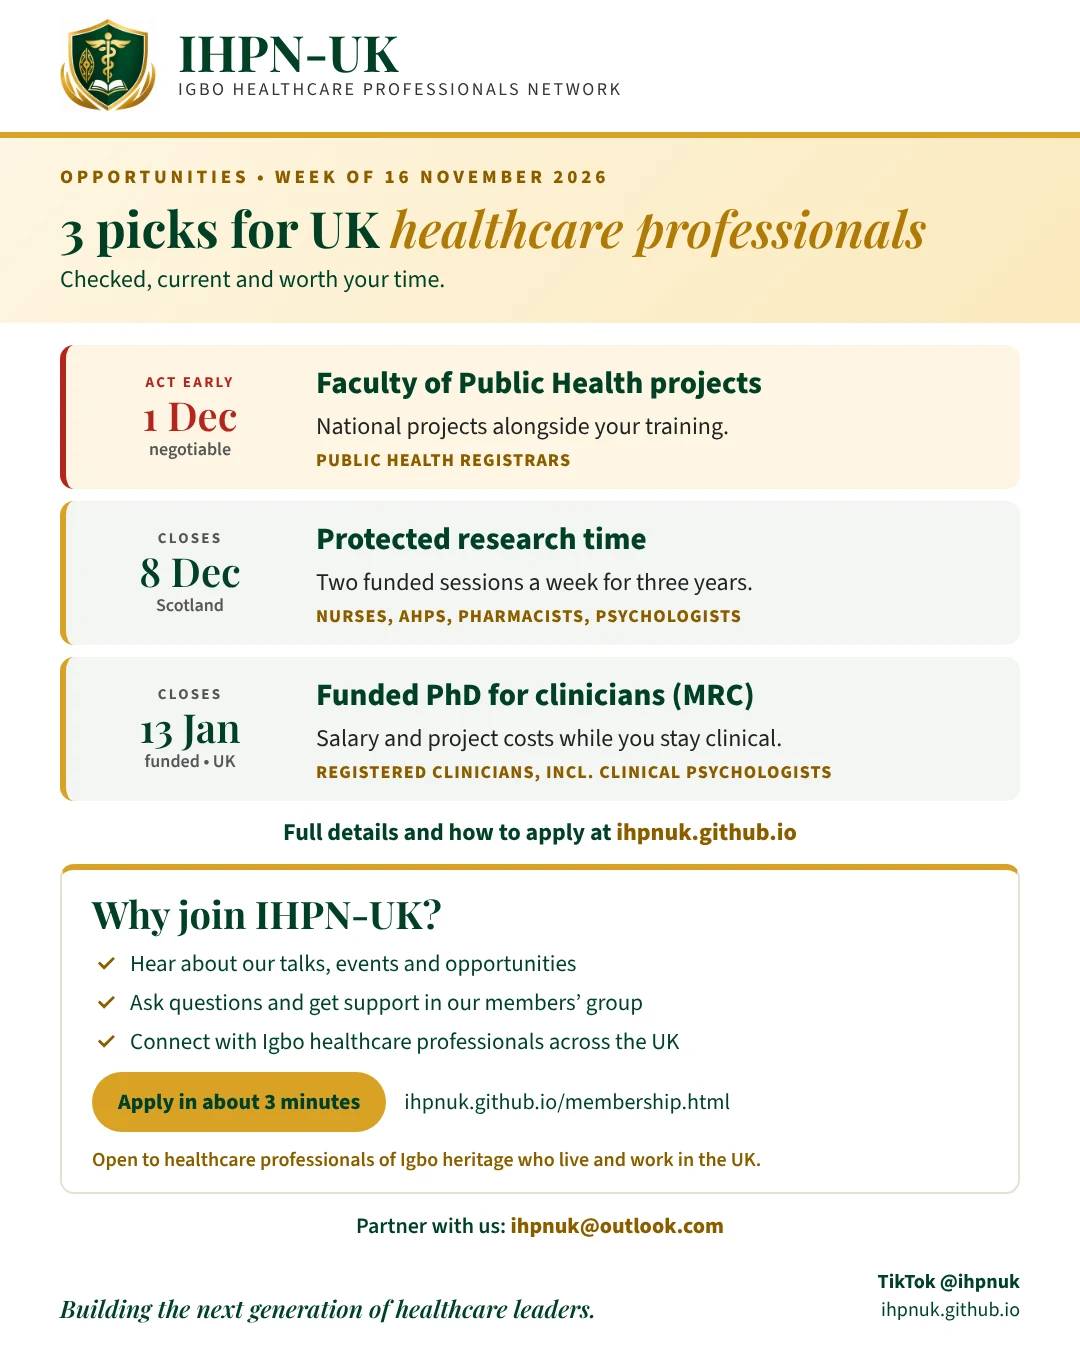
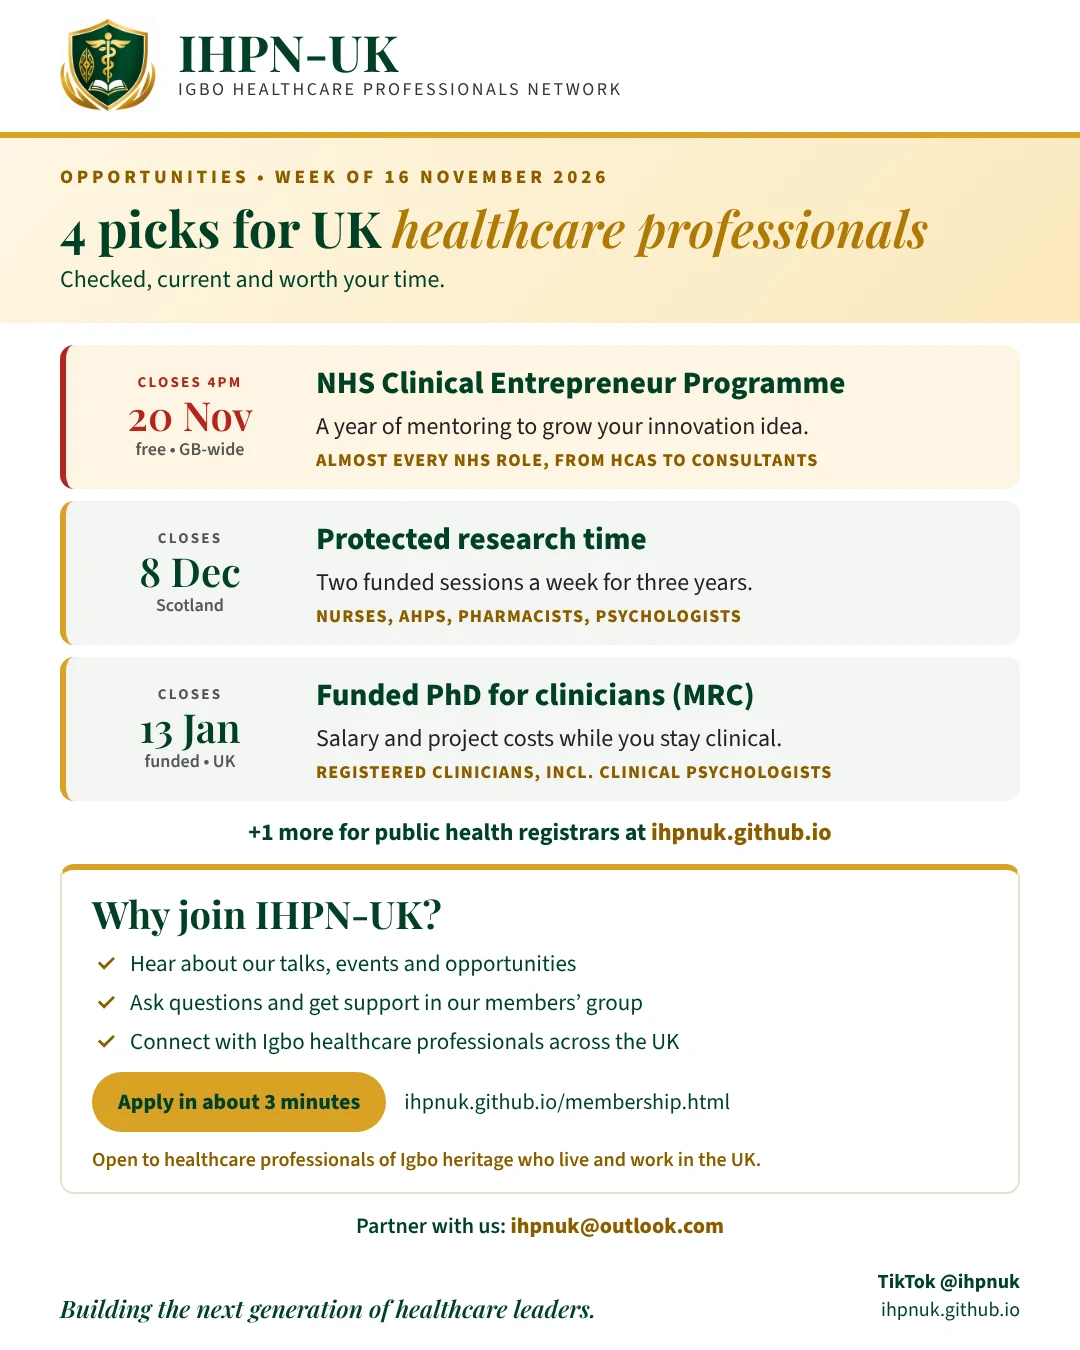
Add NHS Clinical Entrepreneur Programme to the 16 November roundup (#47)
Claude-Session: https://claude.ai/code/session_01TceWZ1n8TxHLDNLvaqp6sJ

diff --git a/opportunities-2026-11-16.html b/opportunities-2026-11-16.html
@@ -3,11 +3,11 @@
 <head>
 <meta charset="utf-8">
 <meta name="viewport" content="width=device-width, initial-scale=1">
-<title>Healthcare opportunities, week of 16 November 2026: 3 picks | IHPN-UK</title>
-<meta name="description" content="Three checked opportunities, week of 16 November 2026: a funded clinical PhD, protected research time in Scotland and projects for public health registrars.">
+<title>Healthcare opportunities, week of 16 November 2026: 4 picks | IHPN-UK</title>
+<meta name="description" content="Four checked opportunities, week of 16 November 2026: the NHS Clinical Entrepreneur Programme, a funded clinical PhD, research time and registrar projects.">
 <meta name="theme-color" content="#013f24">
-<meta property="og:title" content="Healthcare opportunities, week of 16 November 2026: 3 picks | IHPN-UK">
-<meta property="og:description" content="Three checked opportunities, week of 16 November 2026: a funded clinical PhD, protected research time in Scotland and projects for public health registrars.">
+<meta property="og:title" content="Healthcare opportunities, week of 16 November 2026: 4 picks | IHPN-UK">
+<meta property="og:description" content="Four checked opportunities, week of 16 November 2026: the NHS Clinical Entrepreneur Programme, a funded clinical PhD, research time and registrar projects.">
 <link rel="canonical" href="https://ihpnuk.github.io/opportunities-2026-11-16.html">
 <meta property="og:url" content="https://ihpnuk.github.io/opportunities-2026-11-16.html">
 <meta property="og:site_name" content="Igbo Healthcare Professionals Network (IHPN-UK)">
@@ -15,7 +15,7 @@
 <meta property="og:image" content="https://ihpnuk.github.io/assets/share/opportunities-2026-11-16.jpg">
 <meta property="og:image:width" content="1200">
 <meta property="og:image:height" content="630">
-<meta property="og:image:alt" content="3 opportunities for UK healthcare professionals, week of 16 November 2026">
+<meta property="og:image:alt" content="4 opportunities for UK healthcare professionals, week of 16 November 2026">
 <meta property="article:modified_time" content="2026-11-15">
 <meta property="article:published_time" content="2026-11-15">
 <meta name="twitter:card" content="summary_large_image">
@@ -76,7 +76,7 @@
 @media (max-width:860px){.glance{grid-template-columns:1fr}}
 @media (max-width:560px){.feat-art{height:100px;justify-content:flex-end;padding-right:32px}.feat-art svg{width:56px;height:56px}.feat-body b{font-size:1.35rem}.mini a{grid-template-columns:40px 1fr}.mini .gl-who{font-size:.72rem}.mini svg{width:40px;height:40px;padding:8px}}
 .feat-art.ph{background:#eef2ef}.feat-art.ph::before,.feat-art.ph::after{display:none}.feat-art.ph img{position:absolute;inset:0;width:100%;height:100%;object-fit:cover;object-position:72% 15%}.ai-note{position:absolute;right:8px;bottom:8px;z-index:1;background:rgba(255,255,255,.85);color:#333;font-size:10px;line-height:1.3;font-weight:600;padding:1px 6px;border-radius:999px}@media (min-width:861px){.feat-art{flex:1;height:auto;min-height:260px}}.feat-art.ph img{object-position:72% 15%}@media (max-width:560px){.feat-art.ph{height:230px;padding-right:0}.feat-art.ph img{object-position:72% 15%}}
-.feat-flag{top:auto;bottom:12px}.glance{grid-template-columns:1fr}.feat-art.ph img{object-position:50% 10%}@media (min-width:861px){.feat{flex-direction:row}.feat-art{flex:0 0 44%;min-height:300px}.mini{display:grid;grid-template-columns:1fr 1fr;gap:12px}.mini a{height:100%}}@media (max-width:560px){.feat-art.ph img{object-position:50% 6%}}
+.feat-flag{top:auto;bottom:12px}.glance{grid-template-columns:1fr}.feat-art.ph img{object-position:50% 10%}@media (min-width:861px){.feat{flex-direction:row}.feat-art{flex:0 0 44%;min-height:300px}.mini{display:grid;grid-template-columns:1fr 1fr 1fr;gap:12px}.mini a{height:100%}}@media (max-width:560px){.feat-art.ph img{object-position:50% 6%}}
 </style>
 <script type="application/ld+json" id="seo-ld">
 {
@@ -85,8 +85,8 @@
   {
    "@type": "Article",
    "@id": "https://ihpnuk.github.io/opportunities-2026-11-16.html#article",
-   "headline": "Healthcare opportunities, week of 16 November 2026: 3 picks",
-   "description": "Three checked opportunities, week of 16 November 2026: a funded clinical PhD, protected research time in Scotland and projects for public health registrars.",
+   "headline": "Healthcare opportunities, week of 16 November 2026: 4 picks",
+   "description": "Four checked opportunities, week of 16 November 2026: the NHS Clinical Entrepreneur Programme, a funded clinical PhD, research time and registrar projects.",
    "image": [
     "https://ihpnuk.github.io/assets/share/opportunities-2026-11-16.jpg"
    ],
@@ -158,15 +158,22 @@
 <section class="page-hero"><div class="wrap">
   <nav class="eyebrow" aria-label="Breadcrumb"><a href="news.html">News</a> &bull; Opportunities &bull; Week of 16 November 2026</nav>
   <h1>Opportunities: week of 16 November 2026</h1>
-  <p class="lead">Three picks this week, all about research and career growth: a funded PhD you can do while staying clinical, protected research time in Scotland and national projects for public health registrars. Tap one to jump to it.</p>
+  <p class="lead">Four picks this week, all about innovation, research and career growth: a free NHS innovation programme open to almost every role, a funded PhD you can do while staying clinical, protected research time in Scotland and national projects for public health registrars. Tap one to jump to it.</p>
 </div></section>
 
 <section>
   <div class="wrap" style="max-width:960px">
     <h2 class="sr">At a glance</h2>
-    <div class="glance"><a class="feat" href="#mrc-crtf" aria-label="Featured: Funded PhD for clinicians (MRC), Closes Wed 13 Jan 2027, 4pm. See details"><div class="feat-art ph"><img src="assets/photos/pexels-doctor-laptop.webp" alt="" width="768" height="1024"><span class="feat-flag">Fully funded PhD</span></div><div class="feat-body"><span class="gl-who">Nurses, midwives, pharmacists, dietitians, clinical psychologists &amp; doctors</span><b>Funded PhD for clinicians (MRC)</b><p>Three years of salary and project costs to do a PhD while staying clinical, for registered healthcare professionals.</p><span class="feat-when">Closes Wed 13 Jan 2027, 4pm</span><span class="feat-btn">See details <span aria-hidden="true">&rarr;</span></span></div></a><ul class="mini"><li><a href="#nrs-clinician-researcher"><svg viewBox="0 0 24 24" aria-hidden="true"><circle cx="9" cy="8" r="3"/><circle cx="17" cy="9" r="2.5"/><path d="M3 20c0-3.5 2.7-6 6-6s6 2.5 6 6"/><path d="M15 14.5c3 0 5.5 2 5.5 5"/></svg><span><span class="gl-who">Scotland: nurses, AHPs, pharmacists, psychologists &amp; public health</span><b>Protected research time (Scotland)</b></span><em>Closes 8 Dec</em></a></li><li><a href="#fph-projects"><svg viewBox="0 0 24 24" aria-hidden="true"><circle cx="12" cy="12" r="9"/><path d="M3 12h18M12 3c3 3.2 3 14.8 0 18M12 3c-3 3.2-3 14.8 0 18"/></svg><span><span class="gl-who">Public health specialty registrars</span><b>FPH projects for PH registrars</b></span><em>Act Early by 1 Dec</em></a></li></ul></div>
-    <figure class="tl-wrap"><svg class="timeline" viewBox="0 0 780 130" role="img" aria-labelledby="tl-t tl-d"><title id="tl-t">Key dates</title><desc id="tl-d">Timeline from today, 15 November 2026, to 13 January 2027: FPH Act Early 1 Dec; NRS Scotland 8 Dec; MRC fellowship 13 Jan. Dates are in order, not to scale.</desc><line x1="40" y1="70" x2="700" y2="70" class="tl-axis"/><circle cx="40" cy="70" r="7" class="tl-today"/><text x="40" y="100" class="tl-lab" text-anchor="middle">Today</text><text x="40" y="118" class="tl-sub" text-anchor="middle">15 Nov</text><circle cx="200" cy="70" r="11" class="tl-dot"/><text x="200" y="44" class="tl-lab" text-anchor="middle">1 Dec</text><text x="200" y="100" class="tl-sub" text-anchor="middle">FPH Act Early</text><circle cx="440" cy="70" r="11" class="tl-dot"/><text x="440" y="44" class="tl-lab" text-anchor="middle">8 Dec</text><text x="440" y="100" class="tl-sub" text-anchor="middle">NRS Scotland</text><circle cx="680" cy="70" r="11" class="tl-dot"/><text x="680" y="44" class="tl-lab" text-anchor="middle">13 Jan</text><text x="680" y="100" class="tl-sub" text-anchor="middle">MRC fellowship</text></svg><ol class="tl-list" aria-label="Key dates"><li><b>1 Dec</b> FPH projects for PH registrars</li><li><b>8 Dec</b> Protected research time (Scotland)</li><li><b>13 Jan</b> Funded PhD for clinicians (MRC)</li></ol></figure>
+    <div class="glance"><a class="feat" href="#nhs-cep" aria-label="Featured: NHS Clinical Entrepreneur Programme, Closes Fri 20 Nov 2026, 4pm: apply this week. See details"><div class="feat-art ph"><img src="assets/photos/pexels-doctor-laptop.webp" alt="" width="768" height="1024"><span class="feat-flag">Closes Friday: apply this week</span></div><div class="feat-body"><span class="gl-who">Almost every NHS role, from HCAs to consultants</span><b>NHS Clinical Entrepreneur Programme</b><p>A free year of mentoring, workshops and events to turn your idea for better care into a real innovation.</p><span class="feat-when">Closes Fri 20 Nov 2026, 4pm: apply this week</span><span class="feat-btn">See details <span aria-hidden="true">&rarr;</span></span></div></a><ul class="mini"><li><a href="#mrc-crtf"><svg viewBox="0 0 24 24" aria-hidden="true"><path d="M9 3h6M10 3v6l-5 9a2 2 0 0 0 1.8 3h10.4a2 2 0 0 0 1.8-3l-5-9V3"/><path d="M7.5 15h9"/></svg><span><span class="gl-who">Nurses, midwives, pharmacists, dietitians, clinical psychologists &amp; doctors</span><b>Funded PhD for clinicians (MRC)</b></span><em>Closes 13 Jan</em></a></li><li><a href="#nrs-clinician-researcher"><svg viewBox="0 0 24 24" aria-hidden="true"><circle cx="9" cy="8" r="3"/><circle cx="17" cy="9" r="2.5"/><path d="M3 20c0-3.5 2.7-6 6-6s6 2.5 6 6"/><path d="M15 14.5c3 0 5.5 2 5.5 5"/></svg><span><span class="gl-who">Scotland: nurses, AHPs, pharmacists, psychologists &amp; public health</span><b>Protected research time (Scotland)</b></span><em>Closes 8 Dec</em></a></li><li><a href="#fph-projects"><svg viewBox="0 0 24 24" aria-hidden="true"><circle cx="12" cy="12" r="9"/><path d="M3 12h18M12 3c3 3.2 3 14.8 0 18M12 3c-3 3.2-3 14.8 0 18"/></svg><span><span class="gl-who">Public health specialty registrars</span><b>FPH projects for PH registrars</b></span><em>Act Early by 1 Dec</em></a></li></ul></div>
+    <figure class="tl-wrap"><svg class="timeline" viewBox="0 0 780 130" role="img" aria-labelledby="tl-t tl-d"><title id="tl-t">Key dates</title><desc id="tl-d">Timeline from today, 15 November 2026, to 13 January 2027: NHS CEP 20 Nov; FPH Act Early 1 Dec; NRS Scotland 8 Dec; MRC fellowship 13 Jan. Dates are in order, not to scale.</desc><line x1="40" y1="70" x2="700" y2="70" class="tl-axis"/><circle cx="40" cy="70" r="7" class="tl-today"/><text x="40" y="100" class="tl-lab" text-anchor="middle">Today</text><text x="40" y="118" class="tl-sub" text-anchor="middle">15 Nov</text><circle cx="200" cy="70" r="11" class="tl-dot"/><text x="200" y="44" class="tl-lab" text-anchor="middle">20 Nov</text><text x="200" y="100" class="tl-sub" text-anchor="middle">NHS CEP</text><circle cx="360" cy="70" r="11" class="tl-dot"/><text x="360" y="44" class="tl-lab" text-anchor="middle">1 Dec</text><text x="360" y="100" class="tl-sub" text-anchor="middle">FPH Act Early</text><circle cx="520" cy="70" r="11" class="tl-dot"/><text x="520" y="44" class="tl-lab" text-anchor="middle">8 Dec</text><text x="520" y="100" class="tl-sub" text-anchor="middle">NRS Scotland</text><circle cx="680" cy="70" r="11" class="tl-dot"/><text x="680" y="44" class="tl-lab" text-anchor="middle">13 Jan</text><text x="680" y="100" class="tl-sub" text-anchor="middle">MRC fellowship</text></svg><ol class="tl-list" aria-label="Key dates"><li><b>20 Nov</b> NHS Clinical Entrepreneur Programme</li><li><b>1 Dec</b> FPH projects for PH registrars</li><li><b>8 Dec</b> Protected research time (Scotland)</li><li><b>13 Jan</b> Funded PhD for clinicians (MRC)</li></ol></figure>
     <div class="grid" style="gap:18px">
+      <article class="card pk" id="nhs-cep">
+        <div class="pk-head"><svg class="pk-ic" viewBox="0 0 24 24" aria-hidden="true"><circle cx="9" cy="8" r="3"/><circle cx="17" cy="9" r="2.5"/><path d="M3 20c0-3.5 2.7-6 6-6s6 2.5 6 6"/><path d="M15 14.5c3 0 5.5 2 5.5 5"/></svg><div><span class="eyebrow" style="color:var(--gold-deep)">Almost every NHS role, from HCAs to consultants</span><h2>NHS Clinical Entrepreneur Programme, Cohort 11</h2></div></div>
+        <p>A free year of mentoring, workshops and events to turn your idea for better care into a real innovation.</p>
+        <ul class="facts"><li><svg class="fi" viewBox="0 0 24 24" aria-hidden="true"><rect x="3" y="5" width="18" height="16" rx="2"/><path d="M3 10h18M8 3v4M16 3v4"/></svg>Closes Fri 20 Nov 2026, 4pm: apply this week</li><li><svg class="fi" viewBox="0 0 24 24" aria-hidden="true"><path d="M16 6.5A4 4 0 0 0 8.5 8.5V13M6 13h8M6.5 19h11M8.5 13c0 3-1 4.5-2 6"/></svg>Free to join (not a paid fellowship and no grants)</li><li><svg class="fi" viewBox="0 0 24 24" aria-hidden="true"><path d="M12 21s-7-6.2-7-11.5a7 7 0 0 1 14 0C19 14.8 12 21 12 21z"/><circle cx="12" cy="9.5" r="2.5"/></svg>Open to NHS staff in England, Scotland and Wales</li></ul>
+        <details><summary>Who can apply and details</summary><ul><li>You need to be 18 or over and part of the NHS workforce. Roles listed include doctors and GPs, nurses, midwives, pharmacists, optometrists, dietitians and other allied health professionals, psychological professions, healthcare scientists, healthcare assistants and other clinical support staff, and healthcare managers. Public health is not named, so check with the team first</li><li>You need an innovation idea, clinical or non-clinical. It can be early stage if you have thought it through carefully</li><li>The application includes a one-minute video pitch and two letters of support from professional contacts, so start now. Write it yourself: the programme does not allow AI-written applications</li><li>Delivered by Anglia Ruskin University as an NHS England initiative. It runs for 12 months from March 2027, with CPD-accredited events, mentoring, workshops and an alumni network. You commit to at least half of the group events and four mentoring sessions</li></ul></details>
+        <p><a class="btn btn-gold pk-btn" href="https://nhscep.com/apply-now/" target="_blank" rel="noopener">See the programme and apply&nbsp;&rarr;<span class="sr"> (opens in new tab)</span></a></p>
+      </article>
       <article class="card pk" id="mrc-crtf">
         <div class="pk-head"><svg class="pk-ic" viewBox="0 0 24 24" aria-hidden="true"><path d="M9 3h6M10 3v6l-5 9a2 2 0 0 0 1.8 3h10.4a2 2 0 0 0 1.8-3l-5-9V3"/><path d="M7.5 15h9"/></svg><div><span class="eyebrow" style="color:var(--gold-deep)">Nurses, midwives, pharmacists, dietitians, clinical psychologists &amp; doctors</span><h2>MRC Professional Doctorate Clinical Research Training Fellowship</h2></div></div>
         <p>Three years of salary and project costs to do a PhD while staying clinical, for registered healthcare professionals.</p>
@@ -190,8 +197,8 @@
       </article>
     </div>
     <p style="margin-top:20px;color:var(--muted);font-size:.9rem"><em>Checked on official sites, 15 Nov 2026. Photo: Pexels. IHPN-UK isn&rsquo;t paid to feature these. Check the official page before you apply.</em></p>
-    <figure style="margin:36px auto 0;text-align:center"><img src="assets/opportunities/2026-11-16.webp" width="1080" height="1350" alt="IHPN-UK opportunities for the week of 16 November 2026: Faculty of Public Health projects for public health registrars, Act Early project by 1 December (negotiable); NHS Research Scotland Clinician Researcher scheme, protected research time for NHS Scotland nurses, AHPs, pharmacists, psychologists and public health specialists, closes 8 December; MRC funded PhD fellowship for registered clinicians including clinical psychologists, closes 13 January. Why join IHPN-UK: hear about our talks, events and opportunities, ask questions and get support in our members&rsquo; group, and connect with Igbo healthcare professionals across the UK." loading="lazy" style="border-radius:14px;box-shadow:var(--shadow);margin:0 auto;width:100%;max-width:420px;height:auto"><figcaption style="color:var(--muted);margin-top:10px">Share this week&rsquo;s card</figcaption></figure>
-    <aside class="convo" aria-labelledby="convo-h"><div class="convo-ic"><svg viewBox="0 0 24 24" aria-hidden="true"><path d="M4 5h12a2 2 0 0 1 2 2v6a2 2 0 0 1-2 2H9l-4 3v-3H4a2 2 0 0 1-2-2V7a2 2 0 0 1 2-2z"/><path d="M20 9h1a1 1 0 0 1 1 1v6a1 1 0 0 1-1 1h-1v3l-3-3h-5"/></svg></div><div><h2 id="convo-h">Join the conversation</h2><p>Support workers and HCAs: the RCN Foundation&rsquo;s education grants reopen in spring 2027, and we&rsquo;ll flag them the moment they do. Health visitors and pharmacists: what would help your career most this year? Tell us and we&rsquo;ll go looking.</p><div class="actions"><a class="btn btn-gold" href="https://www.tiktok.com/@ihpnuk" target="_blank" rel="noopener"><svg viewBox="0 0 24 24" aria-hidden="true"><path d="M16.6 5.8A4.3 4.3 0 0 1 15.5 3h-3.1v12.4a2.6 2.6 0 1 1-2.6-2.6c.3 0 .5 0 .8.1V9.7a5.8 5.8 0 1 0 5 5.7V9.1a7.4 7.4 0 0 0 4.3 1.4V7.4a4.3 4.3 0 0 1-3.3-1.6z"/></svg> Message us on TikTok<span class="sr"> (opens in new tab)</span></a><a class="btn btn-outline dark" href="mailto:ihpnuk@outlook.com?subject=Opportunities%2016%20November"><svg viewBox="0 0 24 24" aria-hidden="true"><path d="M3 5h18a1 1 0 0 1 1 1v12a1 1 0 0 1-1 1H3a1 1 0 0 1-1-1V6a1 1 0 0 1 1-1zm1 2.4V17h16V7.4l-8 5.3-8-5.3zM5.6 7 12 11.2 18.4 7H5.6z"/></svg> Email us</a></div><p class="convo-mail">or write to <a href="mailto:ihpnuk@outlook.com">ihpnuk@outlook.com</a></p></div></aside>
+    <figure style="margin:36px auto 0;text-align:center"><img src="assets/opportunities/2026-11-16.webp" width="1080" height="1350" alt="IHPN-UK opportunities for the week of 16 November 2026: NHS Clinical Entrepreneur Programme, a free year of mentoring and workshops for NHS staff with an innovation idea, closes 20 November; Faculty of Public Health projects for public health registrars, Act Early project by 1 December (negotiable); NHS Research Scotland Clinician Researcher scheme, protected research time for NHS Scotland nurses, AHPs, pharmacists, psychologists and public health specialists, closes 8 December; MRC funded PhD fellowship for registered clinicians including clinical psychologists, closes 13 January. Why join IHPN-UK: hear about our talks, events and opportunities, ask questions and get support in our members&rsquo; group, and connect with Igbo healthcare professionals across the UK." loading="lazy" style="border-radius:14px;box-shadow:var(--shadow);margin:0 auto;width:100%;max-width:420px;height:auto"><figcaption style="color:var(--muted);margin-top:10px">Share this week&rsquo;s card</figcaption></figure>
+    <aside class="convo" aria-labelledby="convo-h"><div class="convo-ic"><svg viewBox="0 0 24 24" aria-hidden="true"><path d="M4 5h12a2 2 0 0 1 2 2v6a2 2 0 0 1-2 2H9l-4 3v-3H4a2 2 0 0 1-2-2V7a2 2 0 0 1 2-2z"/><path d="M20 9h1a1 1 0 0 1 1 1v6a1 1 0 0 1-1 1h-1v3l-3-3h-5"/></svg></div><div><h2 id="convo-h">Join the conversation</h2><p>Support workers and HCAs: the RCN Foundation&rsquo;s education grants reopen in spring 2027, and we&rsquo;ll flag them the moment they do. Health visitors and pharmacists: what would help your career most this year? Tell us and we&rsquo;ll go looking.</p><div class="actions"><a class="btn btn-gold" href="https://www.tiktok.com/@ihpnuk" target="_blank" rel="noopener"><svg viewBox="0 0 24 24" aria-hidden="true"><path d="M16.6 5.8A4.3 4.3 0 0 1 15.5 3h-3.1v12.4a2.6 2.6 0 1 1-2.6-2.6c.3 0 .5 0 .8.1V9.7a5.8 5.8 0 1 0 5 5.7V9.1a7.4 7.4 0 0 0 4.3 1.4V7.4a4.3 4.3 0 0 1-3.3-1.6z"/></svg> Message us on TikTok<span class="sr"> (opens in new tab)</span></a><a class="btn btn-outline dark" href="https://www.instagram.com/ihpnuk/" target="_blank" rel="noopener"><svg viewBox="0 0 24 24" aria-hidden="true"><path fill-rule="evenodd" d="M7.5 2h9A5.5 5.5 0 0 1 22 7.5v9a5.5 5.5 0 0 1-5.5 5.5h-9A5.5 5.5 0 0 1 2 16.5v-9A5.5 5.5 0 0 1 7.5 2zm0 2A3.5 3.5 0 0 0 4 7.5v9A3.5 3.5 0 0 0 7.5 20h9a3.5 3.5 0 0 0 3.5-3.5v-9A3.5 3.5 0 0 0 16.5 4h-9zM12 7a5 5 0 1 1 0 10 5 5 0 0 1 0-10zm0 2a3 3 0 1 0 0 6 3 3 0 0 0 0-6zm5.3-3.6a1.3 1.3 0 1 1 0 2.6 1.3 1.3 0 0 1 0-2.6z"/></svg> Message us on Instagram<span class="sr"> (opens in new tab)</span></a><a class="btn btn-outline dark" href="mailto:ihpnuk@outlook.com?subject=Opportunities%2016%20November"><svg viewBox="0 0 24 24" aria-hidden="true"><path d="M3 5h18a1 1 0 0 1 1 1v12a1 1 0 0 1-1 1H3a1 1 0 0 1-1-1V6a1 1 0 0 1 1-1zm1 2.4V17h16V7.4l-8 5.3-8-5.3zM5.6 7 12 11.2 18.4 7H5.6z"/></svg> Email us</a></div><p class="convo-mail">or write to <a href="mailto:ihpnuk@outlook.com">ihpnuk@outlook.com</a></p></div></aside>
   </div>
 </section>
 

diff --git a/news.html b/news.html
@@ -143,8 +143,8 @@
       <article class="card news-item">
         <div class="news-thumb"><img src="assets/news/opportunities-2026-11-16.webp" alt="" width="640" height="360" loading="lazy"></div>
         <time datetime="2026-11-15">15 November 2026</time>
-        <h3>Opportunities this week: 3 picks for healthcare professionals</h3>
-        <p>A funded PhD you can do while staying clinical, protected research time in Scotland and national projects for public health registrars.</p>
+        <h3>Opportunities this week: 4 picks for healthcare professionals</h3>
+        <p>The free NHS Clinical Entrepreneur Programme (closes 20 November), a funded PhD you can do while staying clinical, protected research time in Scotland and projects for public health registrars.</p>
         <a href="opportunities-2026-11-16.html">See this week&rsquo;s picks<span class="sr"> (16 November)</span> &rarr;</a>
       </article>
       <article class="card news-item">
